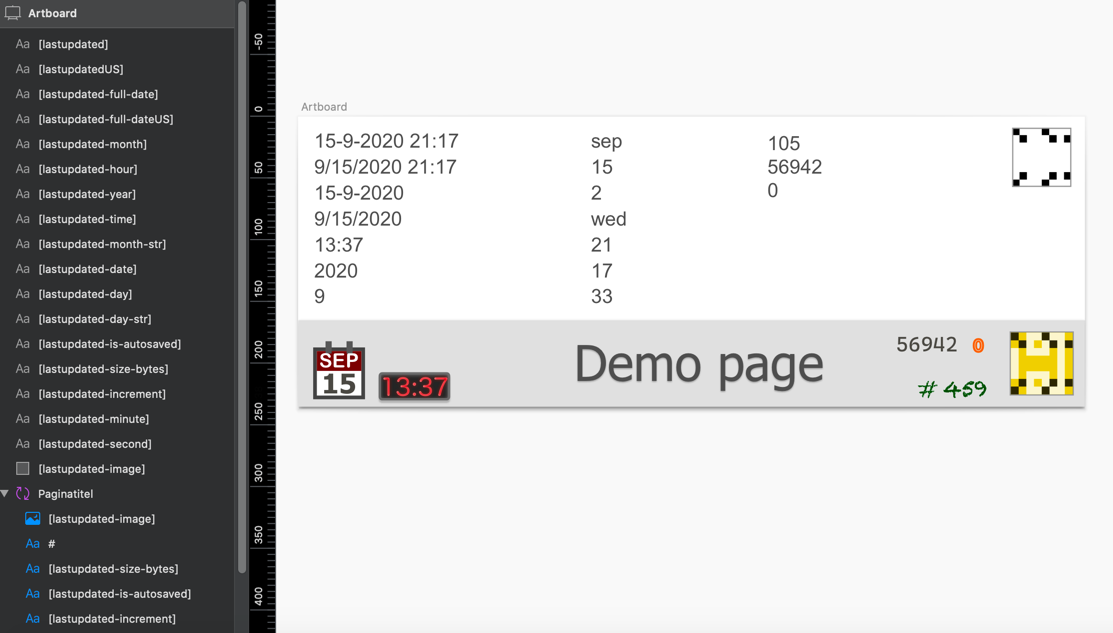
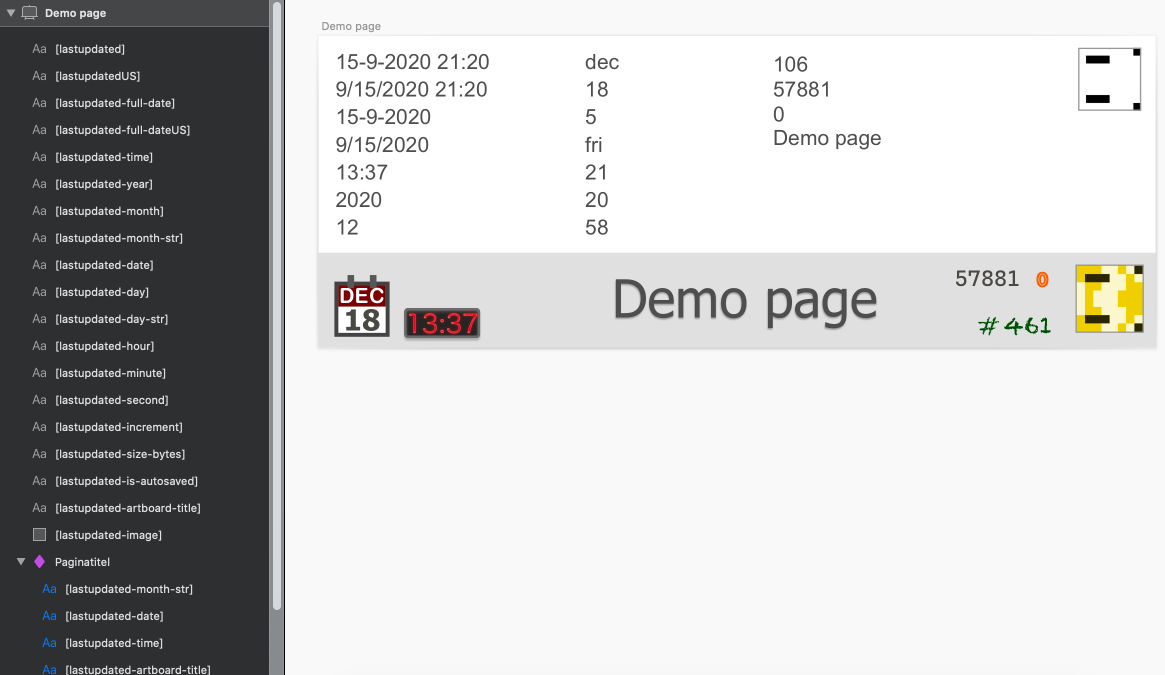
Add support for [lastupdated-artboard-title], and updated readme, screenshot and demo file

diff --git a/last-updated.sketchplugin/Contents/Sketch/document-saved.js b/last-updated.sketchplugin/Contents/Sketch/document-saved.js
@@ -36,6 +36,7 @@ function applyLastUpdated(artboard, lastUpdatedDate) {
     let lastupdatedImages = new Map();
     let date = d.getDate() + "-" + (d.getMonth()+1) + "-" + d.getFullYear();
     let time = d.getHours() + ":" + z(d.getMinutes());
+    var artboardTitle = artboard.name().toString();
 
     var replacements = new Map([
         ["[lastupdated]", () => date + " " + time],
@@ -55,7 +56,9 @@ function applyLastUpdated(artboard, lastUpdatedDate) {
         ["[lastupdated-image]", getLastupdatedImage],
         ["[lastupdated-increment]", (curValue) => isNaN(curValue) || isNaN(parseInt(curValue))? curValue : (parseInt(curValue)+1).toString()],
         ["[lastupdated-size-bytes]", () => sizeBytes.toString()],
-        ["[lastupdated-is-autosaved]", () => autoSaved.toString()]
+        ["[lastupdated-is-autosaved]", () => autoSaved.toString()],
+        ["[lastupdated-is-autosaved]", () => autoSaved.toString()],
+        ["[lastupdated-artboard-title]", () => artboardTitle]
     ]);
 
     //loop to iterate on children

diff --git a/last-updated.sketchplugin/Contents/Sketch/document-changed.js b/last-updated.sketchplugin/Contents/Sketch/document-changed.js
@@ -21,7 +21,8 @@ const placeholders = [
     "[lastupdated-image]",
     "[lastupdated-increment]",
     "[lastupdated-size-bytes]",
-    "[lastupdated-is-autosaved]"
+    "[lastupdated-is-autosaved]",
+    "[lastupdated-artboard-title]",
 ];
 var onDocumentChanged = function (context) {
     

diff --git a/README.md b/README.md
@@ -68,6 +68,10 @@ This plugin didn't exist for some great inspiration:
 <br>
 
 # Releases
+## current
+- Supports artboard title: `[artboard-title]`
+- The document is no longer marked as changed after saving
+
 ## v1.2.0
 - Marks document as changed on document change instead of selection change (finally). This will prevent unnecessary saves and might be a bit faster.
 - Add [size-bytes] and [autosaved] to possible placeholders
